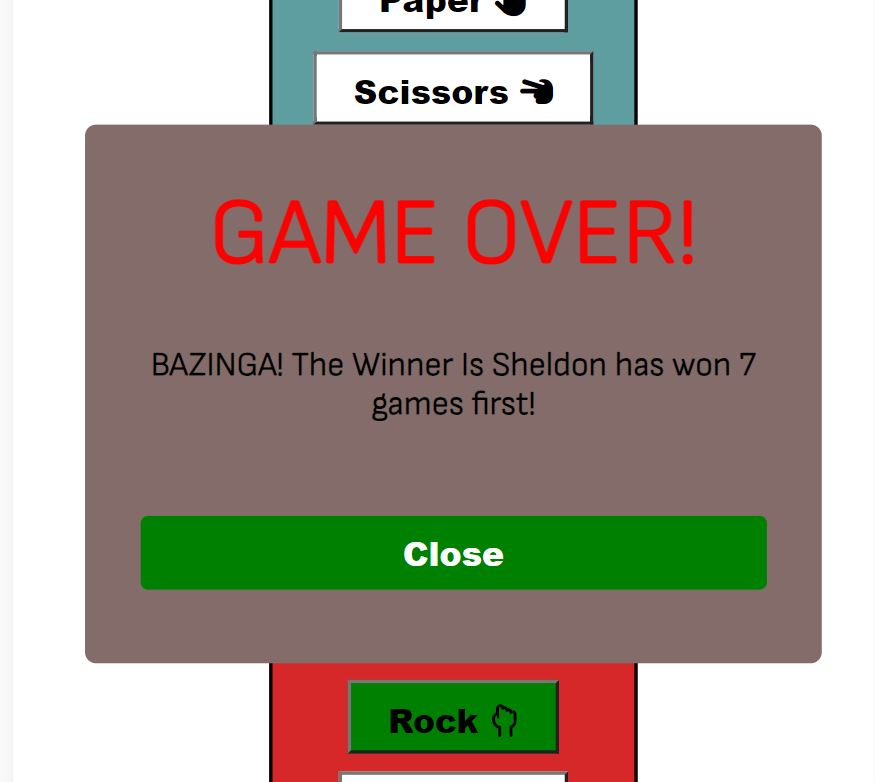
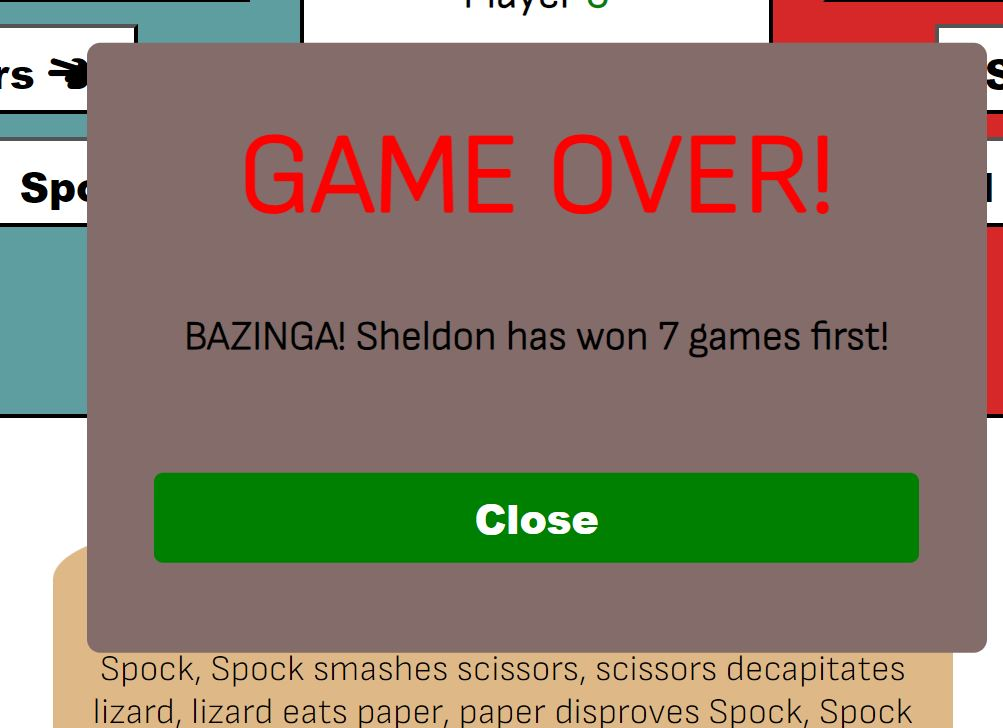
Added style to the rules, title and game section to make it more responsive

diff --git a/assets/css/style.css b/assets/css/style.css
@@ -21,6 +21,11 @@ body {
     margin-top: 20px;
     color: black;
     border: 40px;
+    margin: 15px;
+}
+
+#title {
+    margin-bottom: 30px;
 }
 
 
@@ -169,7 +174,6 @@ button {
     border-radius: 15%;
     padding: 15px;
     border: 10px;
-    margin-right: 30px;
 }
 
 /* media query for screens large than 768px (tablet) */
@@ -204,20 +208,21 @@ button {
     #game-section {
         padding-top: 20px;
         margin-bottom: 20px;
+        margin-top: 60px;
     }
 
     #rules {
         width: 400px;
-        height: 150px;
+        height: 250px;
+        font-size: x-large;
+        font-weight: 800;
     }
 
     #player-scores {
-        margin-right: 15px;
         font-size: large;
     }
 
     #computer-scores {
-        margin-left: 15px;
         font-size: large;
     }
 }
@@ -227,6 +232,7 @@ button {
 
     #game-section {
         padding-bottom: 10px;
+        margin-top: 60px;
     }
 
     #game-info {
@@ -243,5 +249,16 @@ button {
     #computer-scores {
         font-size: larger;
         margin: 0;
+    }
+
+    #rules {
+        font-size: x-large;
+        font-weight: 800;
+        height: 250px;
+    }
+
+    #title {
+        font-size: 57px;
+        font-style: italic;
     }
 }

diff --git a/index.html b/index.html
@@ -14,7 +14,7 @@
   </head>
   <body>
     <header>
-      <h1>Test Your Luck Against The Mighty Sheldon Cooper</h1>
+      <h1 id="title" >Test Your Luck Against The Mighty Sheldon Cooper</h1>
       <p>
         To Play the game simple choose your answer from the player termal below
         and hit shoot! First to 7 Wins.
